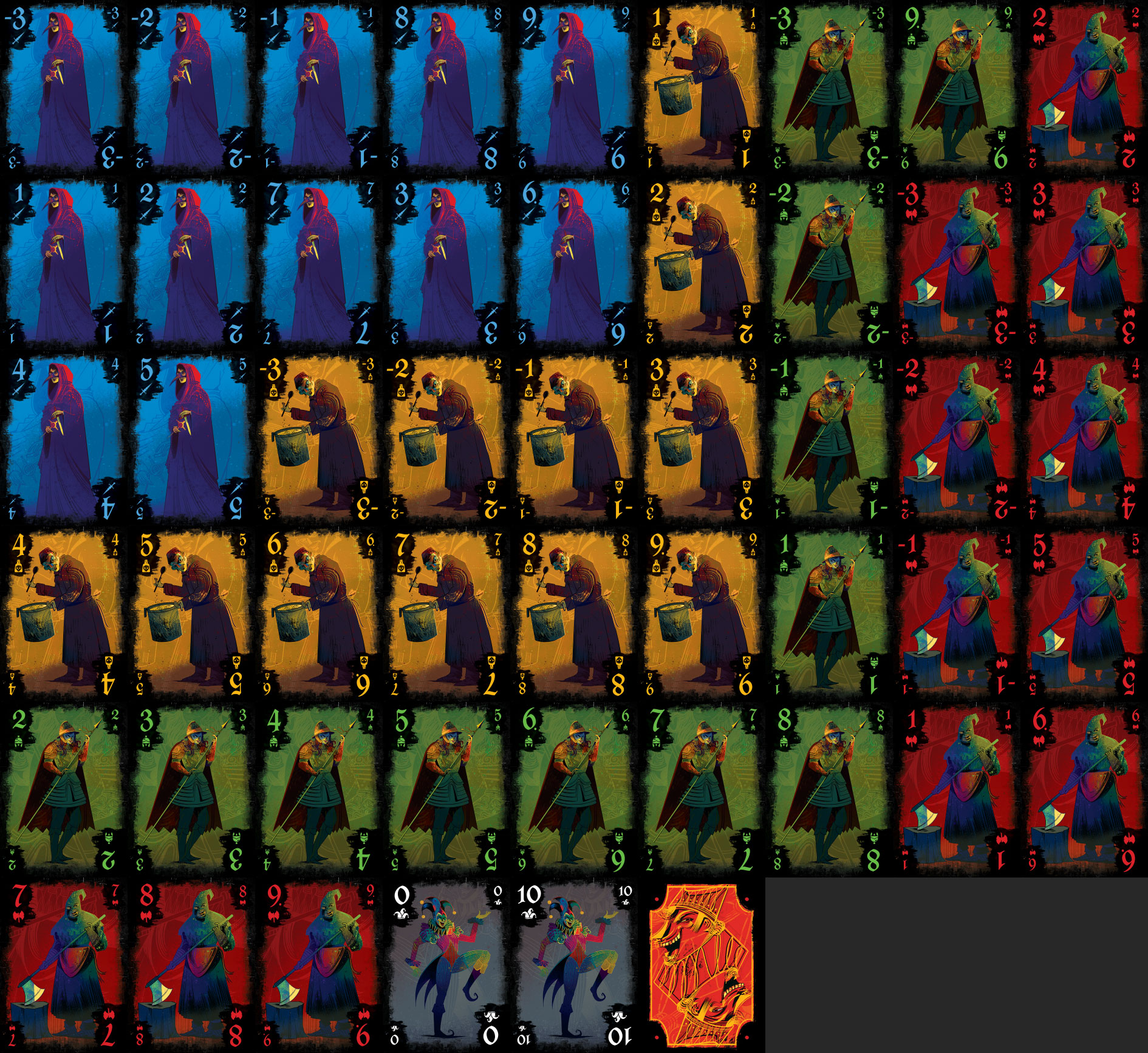
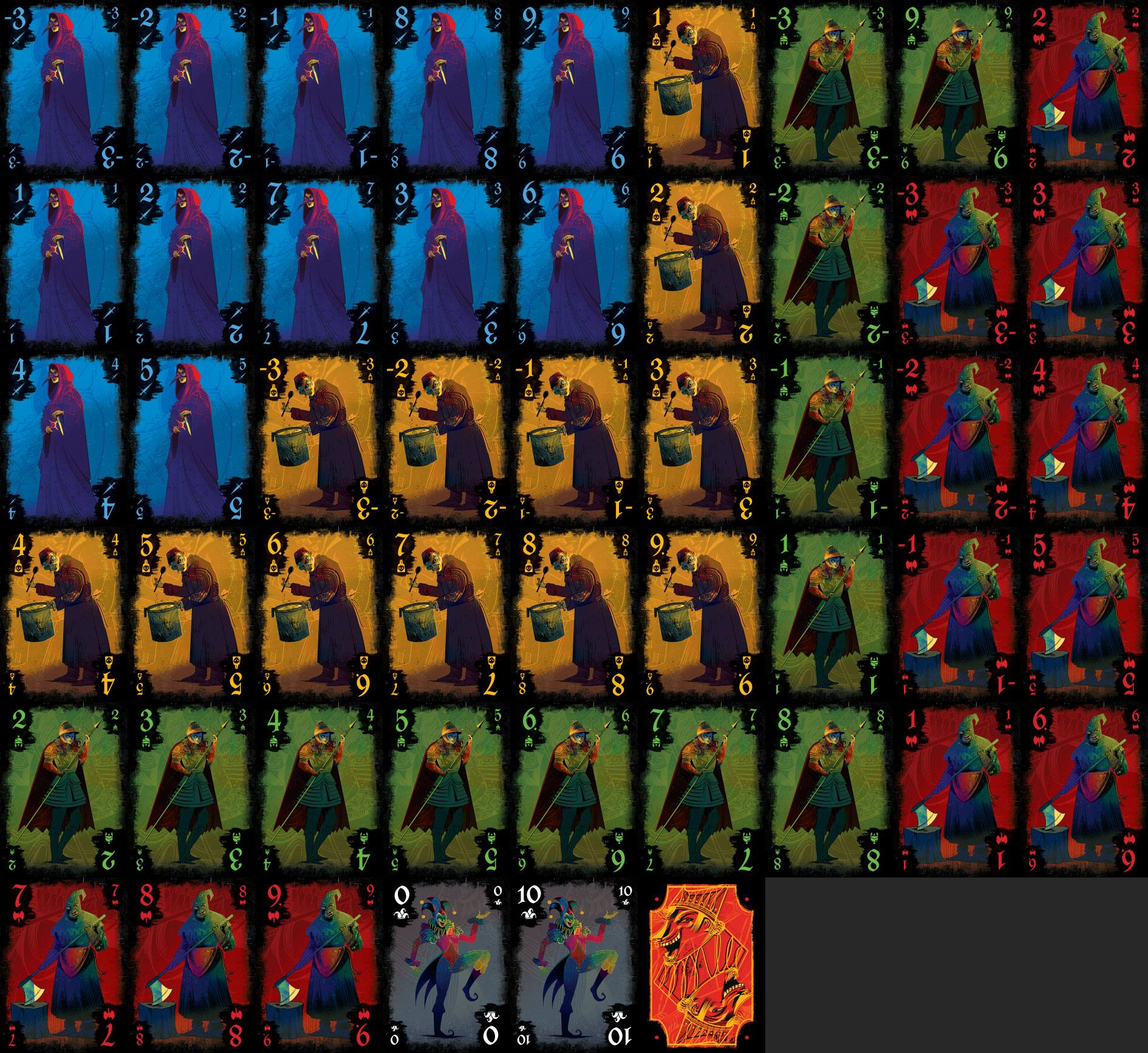
Compress sprite sheet to 545KB progressive JPEG, add cache-bust version

diff --git a/index.html b/index.html
@@ -254,7 +254,7 @@
             width: 100%;
             height: 100%;
             border-radius: 8px;
-            background-image: url('cards-sheet.jpg');
+            background-image: url('cards-sheet.jpg?v=2');
             background-size: 900% 600%; /* 9列 x 6行，单格恰好铺满元素 */
             background-repeat: no-repeat;
             box-shadow: 0 2px 6px rgba(0,0,0,0.45);
@@ -272,7 +272,7 @@
             height: 36px;
             border-radius: 4px;
             margin-left: -20px;
-            background-image: url('cards-sheet.jpg');
+            background-image: url('cards-sheet.jpg?v=2');
             background-size: 900% 600%;
             background-repeat: no-repeat;
             box-shadow: -1px 0 3px rgba(0,0,0,0.45);
